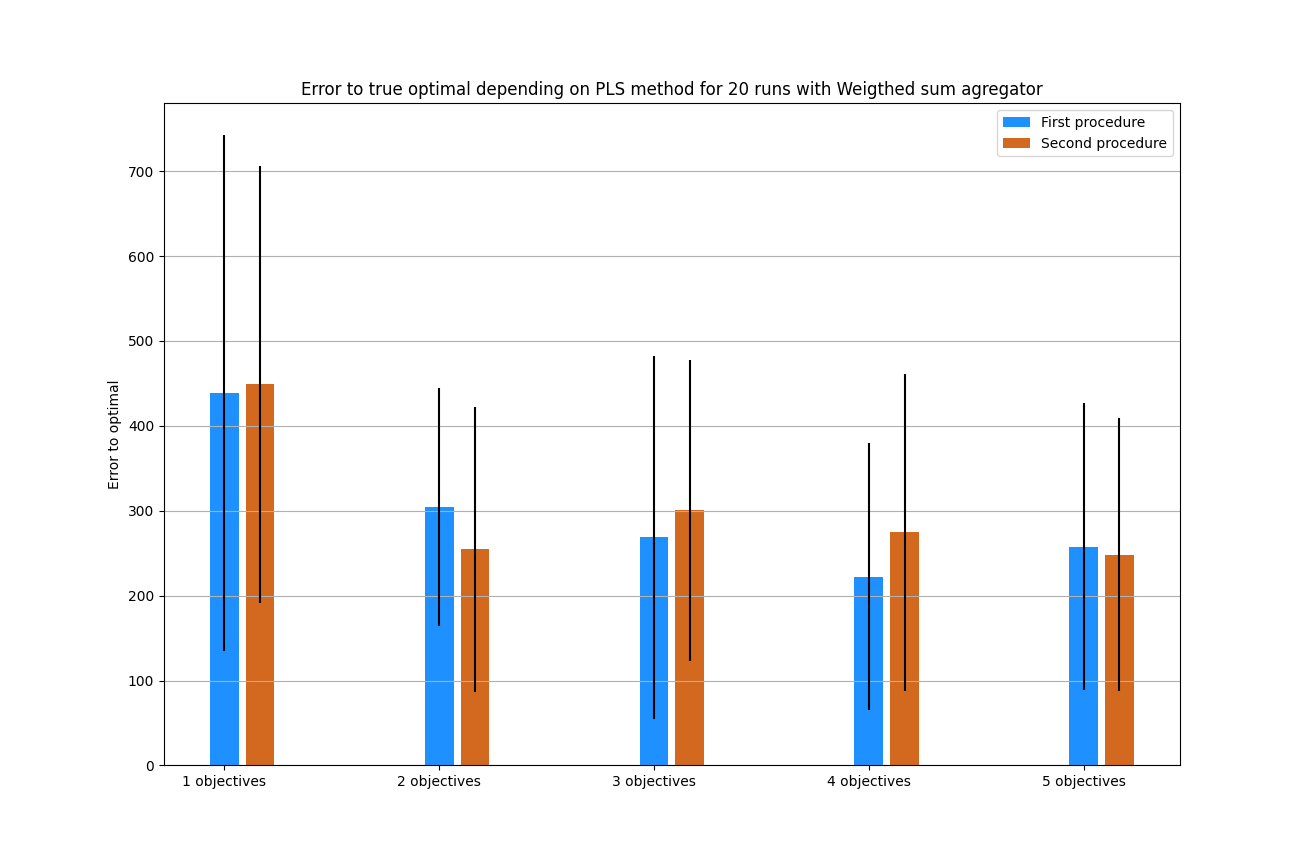
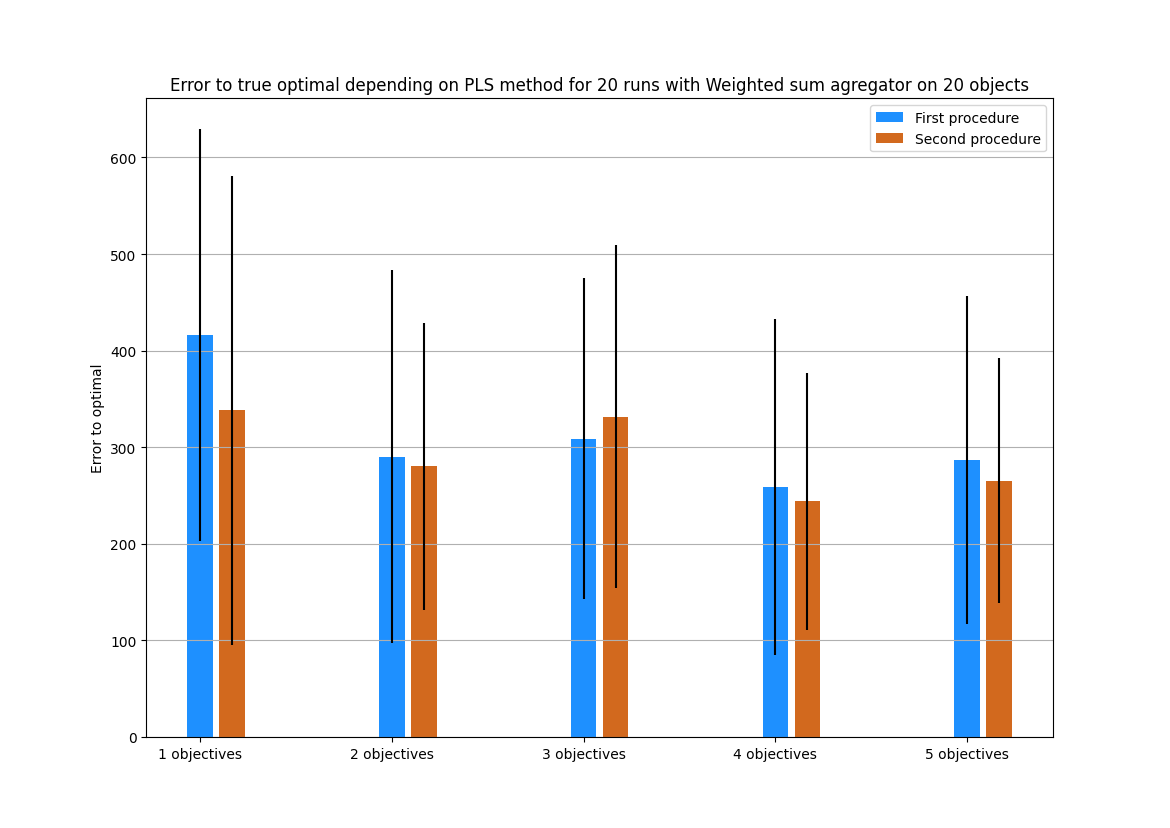
Added all results

diff --git a/main_part_2.py b/main_part_2.py
@@ -24,7 +24,11 @@ nb_obj_to_test_2 = 20
 crit_to_test_2 = [1,2,3,4,5]
 crit_colors_2 = ["lightskyblue", "chartreuse", "salmon", "mediumorchid", "orange"]
 
-agregators_to_test = {"Weighted Sum":weighted_sum, "OWA":OWA}
+nb_obj_iterate = list(range(20, 51, 10))
+nb_obj_colors = ["chartreuse", "salmon", "mediumorchid", "orange"]
+crit_iterate_to_test = 2
+
+agregators_to_test = {"Weighted sum":weighted_sum}
 
 
 # --------------------------------------------------------------------------
@@ -67,7 +71,7 @@ for name, agregator in agregators_to_test.items():
                                             agregation_function=user.agregation_function, weights=user.weights)
 
             # Getting the same initial population
-            init_pop = pls3.get_init_pop(instance)
+            init_pop = None # pls3.get_init_pop(instance)
 
             # Executing each procedure
             start = time.time()
@@ -97,7 +101,7 @@ for name, agregator in agregators_to_test.items():
     ax_2_time = plt.subplot()
 
     plot_bar_dict_group(ax=ax_2_time, list_entry_dict=list_resolution_time_2, group_names=["{} objectives".format(i) for i in crit_to_test_2],
-                        title="Convergence time depending on PLS method for {} runs with {} agregator".format(nb_runs_2, name), 
+                        title="Convergence time depending on PLS method for {} runs with {} agregator on {} objects".format(nb_runs_2, name, nb_obj_to_test_2), 
                         colors=methods_colors, y_label="Convergence time", log_scale=True)
 
     axs_2_time.append(ax_2_time)
@@ -107,7 +111,7 @@ for name, agregator in agregators_to_test.items():
     ax_2_error = plt.subplot()
 
     plot_bar_dict_group(ax=ax_2_error, list_entry_dict=list_error_2, group_names=["{} objectives".format(i) for i in crit_to_test_2],
-                        title="Error to true optimal depending on PLS method for {} runs with {} agregator".format(nb_runs_2, name), 
+                        title="Error to true optimal depending on PLS method for {} runs with {} agregator on {} objects".format(nb_runs_2, name, nb_obj_to_test_2), 
                         colors=methods_colors, y_label="Error to optimal", log_scale=False)
     
     axs_2_error.append(ax_2_error)
@@ -117,6 +121,118 @@ for name, agregator in agregators_to_test.items():
     ax_2_question = plt.subplot()
 
     plot_bar_dict_group(ax=ax_2_question, list_entry_dict=list_question_2, group_names=["{} objectives".format(i) for i in crit_to_test_2],
+                        title="Number of queries depending on PLS method for {} runs with {} agregator on {} objects".format(nb_runs_2, name, nb_obj_to_test_2), 
+                        colors=methods_colors, y_label="Number of queries", log_scale=False)
+    
+    axs_2_question.append(ax_2_question)
+
+    # Plotting questions/error graph
+    
+    for method in methods:
+        plt.figure()
+        ax = plt.subplot()
+        ax.xaxis.grid(True)
+        ax.yaxis.grid(True)
+        ax.set_title("Error depending on questions asked for {} with {} agregator on {} runs on {} objects".format(method, name, nb_runs_2, nb_obj_to_test_2))
+
+        for i, crit_it in enumerate(crit_to_test_2):
+            
+            point = ax.scatter(list_question_2[i][method], list_error_2[i][method], color=crit_colors_2[i])
+            
+            point.set_label("{} objectives".format(crit_it))
+        
+        ax.legend()
+
+plt.show()
+
+
+# Now iterating over the number of objects
+methods = ["First procedure", "Second procedure"]
+methods_colors = ["dodgerblue","chocolate"]
+
+axs_2_time = []
+axs_2_error = []
+axs_2_question = []
+
+for name, agregator in agregators_to_test.items():
+
+    list_resolution_time_2 = []
+    list_error_2 = []
+    list_question_2 = []
+
+    for nb_obj_it in nb_obj_iterate:
+
+        resolution_time_2 = {k:[] for k in methods}
+        error_2 = {k:[] for k in methods}
+        question_2 = {k:[] for k in methods}
+
+        for _ in range(nb_runs_2):
+            print("{} \t{} objects\t{}/{} runs".format(name, nb_obj_it, _+1, nb_runs_2), end="\r")
+            # loading the user
+            user = DecisionMaker(agregator, crit_iterate_to_test)
+
+            # Loading the problem
+            instance = make_instance(root, nb_obj_it, crit_iterate_to_test, random_obj)
+
+            # Finding the true optimal solution with linear programming
+            real_val = solve_backpack_preference(instance, crit_iterate_to_test, user)
+
+            # Solving the problem
+            pls3 = PLS3(root=None, root2=None, instance=instance)
+            pls_elicitation = PLS_ELICITATION(root=None, root2=None, instance=instance,
+                                            agregation_function=user.agregation_function, weights=user.weights)
+
+            # Getting the same initial population
+            init_pop = None # pls3.get_init_pop(instance)
+
+            # Executing each procedure
+            start = time.time()
+            pls3.run(verbose_progress=False, show=False, show_best=False, verbose=False, init_pop=init_pop)
+            elicitor = Elicitor(pls3.pareto_coords, user)
+            opt_val, mmr = elicitor.query_user(verbose=False)
+
+            resolution_time_2["First procedure"].append(time.time() - start)
+            error_2["First procedure"].append(abs(user.agregation_function(user.weights, opt_val[0]) - real_val))
+            question_2["First procedure"].append(len(elicitor.user_preferences))
+
+            start = time.time()
+            pls_elicitation.run(verbose_progress=False, show=False, show_best=False, verbose=False, init_pop=init_pop)
+
+            resolution_time_2["Second procedure"].append(time.time() - start)
+            error_2["Second procedure"].append(abs(user.agregation_function(user.weights, pls_elicitation.pareto_coords[0]) - real_val))
+            question_2["Second procedure"].append(pls_elicitation.nb_questions)
+
+        # Saving the results
+        list_resolution_time_2.append(resolution_time_2)
+        list_error_2.append(error_2)
+        list_question_2.append(question_2)
+
+    # Plotting the results
+    #   Plotting computing time bar graph
+    plt.figure()
+    ax_2_time = plt.subplot()
+
+    plot_bar_dict_group(ax=ax_2_time, list_entry_dict=list_resolution_time_2, group_names=["{} objects".format(i) for i in nb_obj_iterate],
+                        title="Convergence time depending on PLS method for {} runs with {} agregator".format(nb_runs_2, name), 
+                        colors=methods_colors, y_label="Convergence time", log_scale=True)
+
+    axs_2_time.append(ax_2_time)
+
+    #   Plotting Error bar graph
+    plt.figure()
+    ax_2_error = plt.subplot()
+
+    plot_bar_dict_group(ax=ax_2_error, list_entry_dict=list_error_2, group_names=["{} objects".format(i) for i in nb_obj_iterate],
+                        title="Error to true optimal depending on PLS method for {} runs with {} agregator".format(nb_runs_2, name), 
+                        colors=methods_colors, y_label="Error to optimal", log_scale=False)
+    
+    axs_2_error.append(ax_2_error)
+
+    #   Plotting questions bar graph
+    plt.figure()
+    ax_2_question = plt.subplot()
+
+    plot_bar_dict_group(ax=ax_2_question, list_entry_dict=list_question_2, group_names=["{} objects".format(i) for i in nb_obj_iterate],
                         title="Number of queries depending on PLS method for {} runs with {} agregator".format(nb_runs_2, name), 
                         colors=methods_colors, y_label="Number of queries", log_scale=False)
     
@@ -135,7 +251,7 @@ for name, agregator in agregators_to_test.items():
             
             point = ax.scatter(list_question_2[i][method], list_error_2[i][method], color=crit_colors_2[i])
             
-            point.set_label("{} objectives".format(crit_it))
+            point.set_label("{} objects".format(crit_it))
         
         ax.legend()
 

diff --git a/main_part_1.py b/main_part_1.py
@@ -1,5 +1,6 @@
 import time
 
+from pls1 import PLS1
 from pls3 import PLS3
 from pls_ndtree import PLS_NDTREE
 from pls_quadtree import PLS_QUADTREE
@@ -30,7 +31,7 @@ crit_colors_1 = ["lightskyblue", "chartreuse", "salmon", "mediumorchid", "orange
 # --------------------------------------------------------------------------
 #       ------------------------- PART 1 -------------------------
 
-methods = ["No data structure", "QuadTree", "NDtree"]
+methods = ["No data structure", "QuadTree", "ND-Tree"]
 methods_colors = ["dodgerblue", "limegreen", "indianred"]
 
 list_mmr_list = []
@@ -54,8 +55,8 @@ for nb_crit_it in crit_to_test_1:
         pls_ndtree = PLS_NDTREE(root=None, root2=None, instance=instance)
 
         # Getting the same initial population
-        init_pop = pls3.get_init_pop(instance)
-        
+        init_pop = pls3.get_init_pop(instance) # N individus
+
         # Comparing speed of each algorithm
         start = time.time()
         pls3.run(verbose_progress=False, show=False, show_best=False, verbose=False, init_pop=init_pop)
@@ -75,7 +76,7 @@ for nb_crit_it in crit_to_test_1:
 
         start = time.time()
         pls_ndtree.run(verbose_progress=False, show=False, show_best=False, verbose=False, init_pop=init_pop)
-        resolution_time_1["NDtree"].append(time.time() - start)
+        resolution_time_1["ND-Tree"].append(time.time() - start)
 
         elicitor = Elicitor(pls_ndtree.pareto_coords, user)
         elicitor.query_user(verbose=False)

diff --git a/Utils/utils_main.py b/Utils/utils_main.py
@@ -21,7 +21,7 @@ def make_instance(root, nb_obj, nb_crit, random_obj=True):
     return {'n':nb_obj, 'W':int(sum(new_weights)/2), 'Objects':[new_weights, new_values]}
 
 
-def solve_backpack_preference(instance, nb_crit, user):
+def solve_backpack_preference(instance, nb_crit, user, is_OWA=False):
     """
     Solve the backpack problem on a given instance with LP
     Returns the optimal value according to the user's agregation function
@@ -36,7 +36,8 @@ def solve_backpack_preference(instance, nb_crit, user):
     assignement = model.addVars(nb_obj, vtype=gp.GRB.BINARY, name="x")
     
     #   Objective
-    model.setObjective(user.agregation_function(user.weights, [sum(assignement[i] * instance['Objects'][1][k][i] for i in range(nb_obj)) for k in range(nb_crit)]), gp.GRB.MAXIMIZE)
+    new_weights = sorted(user.weights, reverse=True) if is_OWA is True else user.weights
+    model.setObjective(user.agregation_function(new_weights, [sum(assignement[i] * instance['Objects'][1][k][i] for i in range(nb_obj)) for k in range(nb_crit)]), gp.GRB.MAXIMIZE)
 
     #   Constraints
     model.addConstr(sum(assignement[i] * instance['Objects'][0][i] for i in range(nb_obj)) <= instance['W'])

diff --git a/Utils/utils_elicitation.py b/Utils/utils_elicitation.py
@@ -33,11 +33,13 @@ def compute_pmr(P, agregation_function, x, y):
             for w in weights:
                 model.addConstr(w <= 1)
                 model.addConstr(w >= 0)
+            
         elif f == OWA:
             for i in range(len(weights)-1):
                 model.addConstr(weights[i] >= weights[i+1])
                 model.addConstr(weights[i] <= 1)
                 model.addConstr(weights[i+1] >= 0)
+    
     if agregation_function == choquet:
         weights = [model.addVar(vtype='C', name='w{}'.format(i)) for i in range(dim**2)]
         f = lambda a: agregation_function(weights, a)

diff --git a/pls_elicitation.py b/pls_elicitation.py
@@ -91,7 +91,7 @@ class PLS_ELICITATION(PLS3):
 
                     # Update the history
                     len_population.append(len(population_index))
-                    pareto_front = self.pareto_coords
+                    pareto_front = self.pareto_coords.copy()
                     if len(self.pareto_coords) != 1:
                         user = DecisionMaker(self.agregation_function, len(pareto_front[0]), self.hidden_weights)
                         elicitor = Elicitor(pareto_front, user)

diff --git a/agregation_functions.py b/agregation_functions.py
@@ -1,6 +1,8 @@
 from scipy.special import comb, perm
 from itertools import combinations, permutations
 
+import gurobipy as gp
+
 def weighted_sum(weights, x_vector):
     return sum(weights[i] * x_vector[i] for i in range(len(weights)))
 
